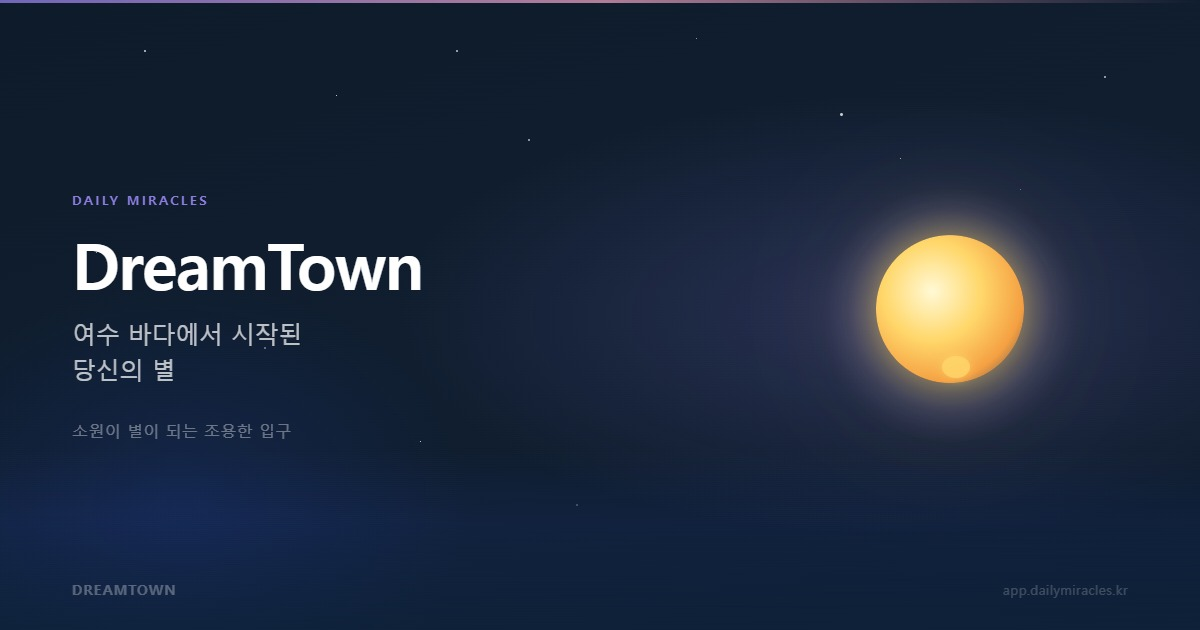
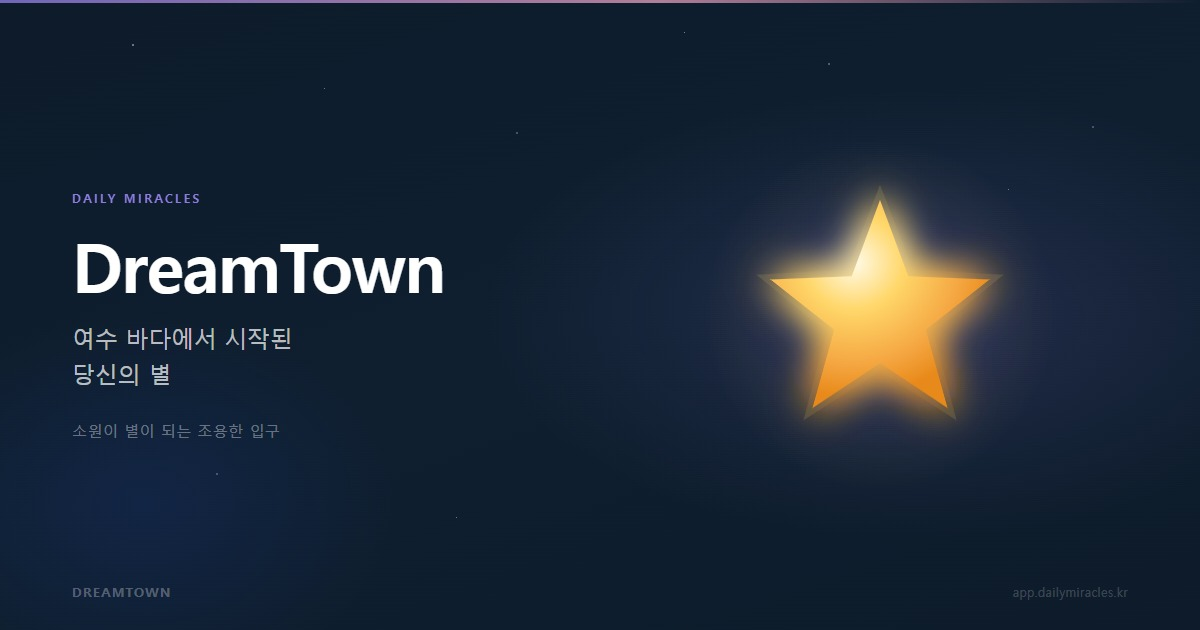
fix: OG 이미지 교체 및 /images gateMiddleware 통과 처리

diff --git a/scripts/generate-og-image.js b/scripts/generate-og-image.js
@@ -11,6 +11,21 @@ const fs = require('fs');
 const OUTPUT_PATH = path.join(__dirname, '..', 'public', 'images', 'dreamtown-og-v2.jpg');
 const CHROME_PATH = 'C:\\Program Files\\Google\\Chrome\\Application\\chrome.exe';
 
+// 5각형 별 SVG 폴리곤 포인트 계산
+// cx=880, cy=315, outerR=115, innerR=48
+function starPoints(cx, cy, outerR, innerR, points = 5) {
+  const pts = [];
+  for (let i = 0; i < points * 2; i++) {
+    const r = i % 2 === 0 ? outerR : innerR;
+    const angle = (Math.PI / points) * i - Math.PI / 2;
+    pts.push(`${(cx + r * Math.cos(angle)).toFixed(1)},${(cy + r * Math.sin(angle)).toFixed(1)}`);
+  }
+  return pts.join(' ');
+}
+
+const STAR_PTS  = starPoints(880, 315, 115, 48);
+const STAR_PTS2 = starPoints(880, 315, 130, 56); // 글로우용 (살짝 큰)
+
 const HTML = `<!DOCTYPE html>
 <html>
 <head>
@@ -29,205 +44,163 @@ const HTML = `<!DOCTYPE html>
     position: relative;
   }
 
-  /* ── 배경 그라디언트 레이어 ── */
   .bg-gradient {
     position: absolute;
     inset: 0;
     background:
-      radial-gradient(ellipse 60% 50% at 75% 50%, rgba(155,135,245,0.18) 0%, transparent 70%),
-      radial-gradient(ellipse 40% 60% at 15% 80%, rgba(46,91,255,0.12) 0%, transparent 60%),
-      linear-gradient(160deg, #0D1B2A 0%, #101E30 50%, #0D1B2A 100%);
+      radial-gradient(ellipse 55% 55% at 76% 50%, rgba(155,135,245,0.14) 0%, transparent 65%),
+      radial-gradient(ellipse 35% 50% at 12% 80%, rgba(46,91,255,0.10) 0%, transparent 60%),
+      linear-gradient(160deg, #0D1B2A 0%, #0F1F30 50%, #0D1B2A 100%);
   }
 
-  /* ── 별 파티클 ── */
-  .stars {
-    position: absolute;
-    inset: 0;
-  }
+  /* 배경 별 파티클 */
   .star-dot {
     position: absolute;
     border-radius: 50%;
     background: white;
-    animation: twinkle 3s infinite alternate;
-  }
-  @keyframes twinkle {
-    from { opacity: 0.2; }
-    to   { opacity: 0.8; }
   }
 
-  /* ── 여수 바다 실루엣 ── */
-  .ocean-line {
+  /* 상단 라인 */
+  .top-line {
     position: absolute;
-    bottom: 0;
-    left: 0;
-    right: 0;
-    height: 180px;
-    background: linear-gradient(180deg,
-      transparent 0%,
-      rgba(46,91,255,0.08) 40%,
-      rgba(14,36,64,0.6) 100%
-    );
+    top: 0; left: 0; right: 0;
+    height: 3px;
+    background: linear-gradient(90deg, #9B87F5 0%, #F5A7C6 55%, transparent 100%);
+    opacity: 0.7;
   }
 
-  /* ── 골든 글로우 (오른쪽 별 빛) ── */
-  .glow-right {
-    position: absolute;
-    right: 120px;
-    top: 50%;
-    transform: translateY(-50%);
-    width: 260px;
-    height: 260px;
-    border-radius: 50%;
-    background: radial-gradient(circle,
-      rgba(255,215,106,0.22) 0%,
-      rgba(155,135,245,0.10) 50%,
-      transparent 70%
-    );
-  }
-
-  /* ── 별 (황금) ── */
-  .star-main {
-    position: absolute;
-    right: 176px;
-    top: 50%;
-    transform: translateY(-54%);
-    width: 148px;
-    height: 148px;
-    border-radius: 50%;
-    background: radial-gradient(circle at 38% 38%,
-      #FFF9D6 0%,
-      #FFD76A 38%,
-      #F5A042 70%,
-      rgba(245,160,66,0) 100%
-    );
-    box-shadow:
-      0 0 40px rgba(255,215,106,0.55),
-      0 0 80px rgba(255,215,106,0.25),
-      0 0 140px rgba(255,215,106,0.12);
-  }
-
-  /* ── 아우룸 (황금 거북 점) ── */
-  .aurum-dot {
-    position: absolute;
-    right: 230px;
-    top: calc(50% + 52px);
-    transform: translateY(-50%);
-    width: 28px;
-    height: 22px;
-    border-radius: 50%;
-    background: #FFD76A;
-    box-shadow: 0 0 12px rgba(255,215,106,0.8);
-    opacity: 0.85;
-  }
-
-  /* ── 메인 텍스트 영역 ── */
+  /* 텍스트 영역 */
   .content {
     position: absolute;
     left: 72px;
     top: 50%;
     transform: translateY(-50%);
-    max-width: 640px;
+    max-width: 580px;
   }
-
   .brand-tag {
-    display: inline-block;
-    font-size: 13px;
+    font-size: 12px;
     font-weight: 600;
-    letter-spacing: 0.18em;
+    letter-spacing: 0.20em;
     color: #9B87F5;
     text-transform: uppercase;
-    margin-bottom: 20px;
+    margin-bottom: 22px;
     opacity: 0.9;
   }
-
   .main-title {
-    font-size: 64px;
+    font-size: 68px;
     font-weight: 800;
     color: #FFFFFF;
-    line-height: 1.1;
+    line-height: 1.08;
     letter-spacing: -0.02em;
-    margin-bottom: 18px;
+    margin-bottom: 20px;
   }
-
   .sub-title {
-    font-size: 24px;
+    font-size: 23px;
     font-weight: 500;
-    color: rgba(255,255,255,0.72);
-    line-height: 1.5;
+    color: rgba(255,255,255,0.70);
+    line-height: 1.55;
     letter-spacing: -0.01em;
-    margin-bottom: 32px;
+    margin-bottom: 28px;
   }
-
   .desc {
-    font-size: 16px;
-    font-weight: 400;
-    color: rgba(255,255,255,0.38);
-    letter-spacing: 0.02em;
+    font-size: 15px;
+    color: rgba(255,255,255,0.36);
+    letter-spacing: 0.03em;
   }
 
-  /* ── 하단 로고/URL ── */
+  /* 하단 바 */
   .bottom-bar {
     position: absolute;
-    bottom: 32px;
-    left: 72px;
-    right: 72px;
+    bottom: 30px;
+    left: 72px; right: 72px;
     display: flex;
-    align-items: center;
     justify-content: space-between;
+    align-items: center;
   }
-
   .logo-text {
-    font-size: 14px;
-    font-weight: 700;
-    color: rgba(255,255,255,0.30);
-    letter-spacing: 0.08em;
-  }
-
-  .url-text {
     font-size: 13px;
-    color: rgba(255,255,255,0.20);
-    letter-spacing: 0.04em;
+    font-weight: 700;
+    color: rgba(255,255,255,0.28);
+    letter-spacing: 0.10em;
   }
-
-  /* ── 상단 얇은 퍼플 라인 ── */
-  .top-line {
-    position: absolute;
-    top: 0;
-    left: 0;
-    right: 0;
-    height: 3px;
-    background: linear-gradient(90deg, #9B87F5 0%, #F5A7C6 50%, transparent 100%);
-    opacity: 0.7;
+  .url-text {
+    font-size: 12px;
+    color: rgba(255,255,255,0.18);
+    letter-spacing: 0.04em;
   }
 </style>
 </head>
 <body>
 
 <div class="bg-gradient"></div>
-
-<!-- 별 파티클 -->
-<div class="stars">
-  <div class="star-dot" style="width:2px;height:2px;top:8%;left:12%;animation-delay:0s"></div>
-  <div class="star-dot" style="width:1px;height:1px;top:15%;left:28%;animation-delay:0.4s"></div>
-  <div class="star-dot" style="width:2px;height:2px;top:22%;left:44%;animation-delay:0.8s"></div>
-  <div class="star-dot" style="width:1px;height:1px;top:6%;left:58%;animation-delay:1.2s"></div>
-  <div class="star-dot" style="width:3px;height:3px;top:18%;left:70%;animation-delay:0.2s;opacity:0.5"></div>
-  <div class="star-dot" style="width:1px;height:1px;top:30%;left:85%;animation-delay:1.6s"></div>
-  <div class="star-dot" style="width:2px;height:2px;top:12%;left:92%;animation-delay:0.6s"></div>
-  <div class="star-dot" style="width:1px;height:1px;top:40%;left:8%;animation-delay:1.0s"></div>
-  <div class="star-dot" style="width:2px;height:2px;top:55%;left:22%;animation-delay:1.4s"></div>
-  <div class="star-dot" style="width:1px;height:1px;top:70%;left:35%;animation-delay:0.3s"></div>
-  <div class="star-dot" style="width:2px;height:2px;top:80%;left:48%;animation-delay:1.8s;opacity:0.4"></div>
-  <div class="star-dot" style="width:1px;height:1px;top:25%;left:75%;animation-delay:0.9s"></div>
-  <div class="star-dot" style="width:2px;height:2px;top:8%;left:38%;animation-delay:0.5s"></div>
-</div>
-
-<div class="ocean-line"></div>
-<div class="glow-right"></div>
-<div class="star-main"></div>
-<div class="aurum-dot"></div>
 <div class="top-line"></div>
 
+<!-- 배경 별 파티클 -->
+<div class="star-dot" style="width:2px;height:2px;top:7%;left:11%;opacity:0.5"></div>
+<div class="star-dot" style="width:1px;height:1px;top:14%;left:27%;opacity:0.4"></div>
+<div class="star-dot" style="width:2px;height:2px;top:21%;left:43%;opacity:0.3"></div>
+<div class="star-dot" style="width:1px;height:1px;top:5%;left:57%;opacity:0.45"></div>
+<div class="star-dot" style="width:2px;height:2px;top:10%;left:69%;opacity:0.35"></div>
+<div class="star-dot" style="width:1px;height:1px;top:30%;left:84%;opacity:0.4"></div>
+<div class="star-dot" style="width:2px;height:2px;top:75%;left:18%;opacity:0.3"></div>
+<div class="star-dot" style="width:1px;height:1px;top:82%;left:38%;opacity:0.4"></div>
+<div class="star-dot" style="width:2px;height:2px;top:20%;left:91%;opacity:0.3"></div>
+<div class="star-dot" style="width:1px;height:1px;top:60%;left:76%;opacity:0.35"></div>
+
+<!-- SVG 별 -->
+<svg
+  style="position:absolute;top:0;left:0;width:1200px;height:630px;overflow:visible"
+  viewBox="0 0 1200 630"
+  xmlns="http://www.w3.org/2000/svg"
+>
+  <defs>
+    <!-- 별 글로우 필터 -->
+    <filter id="starGlow" x="-60%" y="-60%" width="220%" height="220%">
+      <feGaussianBlur stdDeviation="18" result="blur1"/>
+      <feGaussianBlur stdDeviation="8"  result="blur2"/>
+      <feMerge>
+        <feMergeNode in="blur1"/>
+        <feMergeNode in="blur2"/>
+        <feMergeNode in="SourceGraphic"/>
+      </feMerge>
+    </filter>
+
+    <!-- 별 그라디언트 -->
+    <radialGradient id="starFill" cx="38%" cy="30%" r="65%">
+      <stop offset="0%"   stop-color="#FFFBEA"/>
+      <stop offset="35%"  stop-color="#FFD76A"/>
+      <stop offset="75%"  stop-color="#F5A742"/>
+      <stop offset="100%" stop-color="#E8891A"/>
+    </radialGradient>
+
+    <!-- 글로우 레이어 그라디언트 -->
+    <radialGradient id="glowFill" cx="50%" cy="50%" r="50%">
+      <stop offset="0%"   stop-color="#FFD76A" stop-opacity="0.30"/>
+      <stop offset="50%"  stop-color="#9B87F5" stop-opacity="0.10"/>
+      <stop offset="100%" stop-color="#FFD76A" stop-opacity="0"/>
+    </radialGradient>
+  </defs>
+
+  <!-- 외곽 글로우 원 -->
+  <circle cx="880" cy="315" r="175" fill="url(#glowFill)"/>
+
+  <!-- 별 그림자/후광 (흐릿한 큰 별) -->
+  <polygon
+    points="${STAR_PTS2}"
+    fill="#FFD76A"
+    opacity="0.18"
+    filter="url(#starGlow)"
+  />
+
+  <!-- 메인 별 -->
+  <polygon
+    points="${STAR_PTS}"
+    fill="url(#starFill)"
+    filter="url(#starGlow)"
+  />
+</svg>
+
+<!-- 텍스트 -->
 <div class="content">
   <div class="brand-tag">Daily Miracles</div>
   <div class="main-title">DreamTown</div>
@@ -256,19 +229,17 @@ async function generate() {
     const page = await browser.newPage();
     await page.setViewport({ width: 1200, height: 630, deviceScaleFactor: 1 });
     await page.setContent(HTML, { waitUntil: 'networkidle0', timeout: 15000 });
-
-    // 폰트 로딩 대기
     await new Promise(r => setTimeout(r, 1500));
 
-    const screenshotBuffer = await page.screenshot({
+    const buf = await page.screenshot({
       type: 'jpeg',
       quality: 92,
       clip: { x: 0, y: 0, width: 1200, height: 630 },
     });
 
-    fs.writeFileSync(OUTPUT_PATH, screenshotBuffer);
+    fs.writeFileSync(OUTPUT_PATH, buf);
     console.log(`✅ 저장 완료: ${OUTPUT_PATH}`);
-    console.log(`   파일 크기: ${(screenshotBuffer.length / 1024).toFixed(1)} KB`);
+    console.log(`   파일 크기: ${(buf.length / 1024).toFixed(1)} KB`);
 
   } finally {
     await browser.close();
